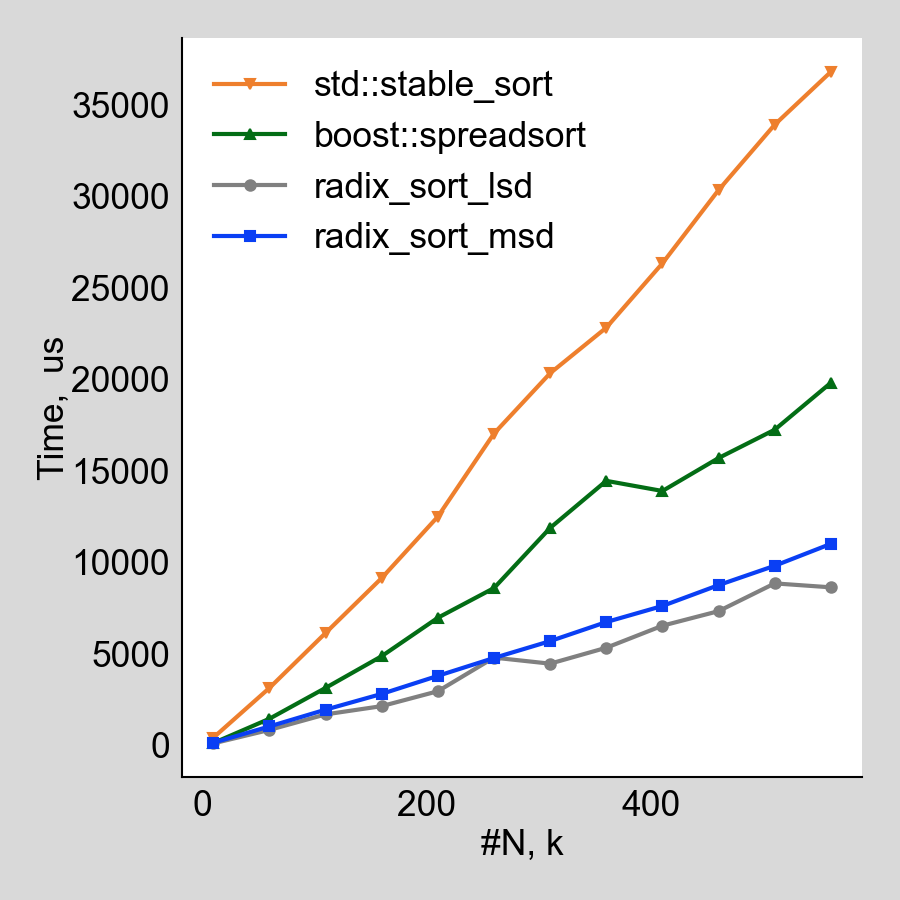
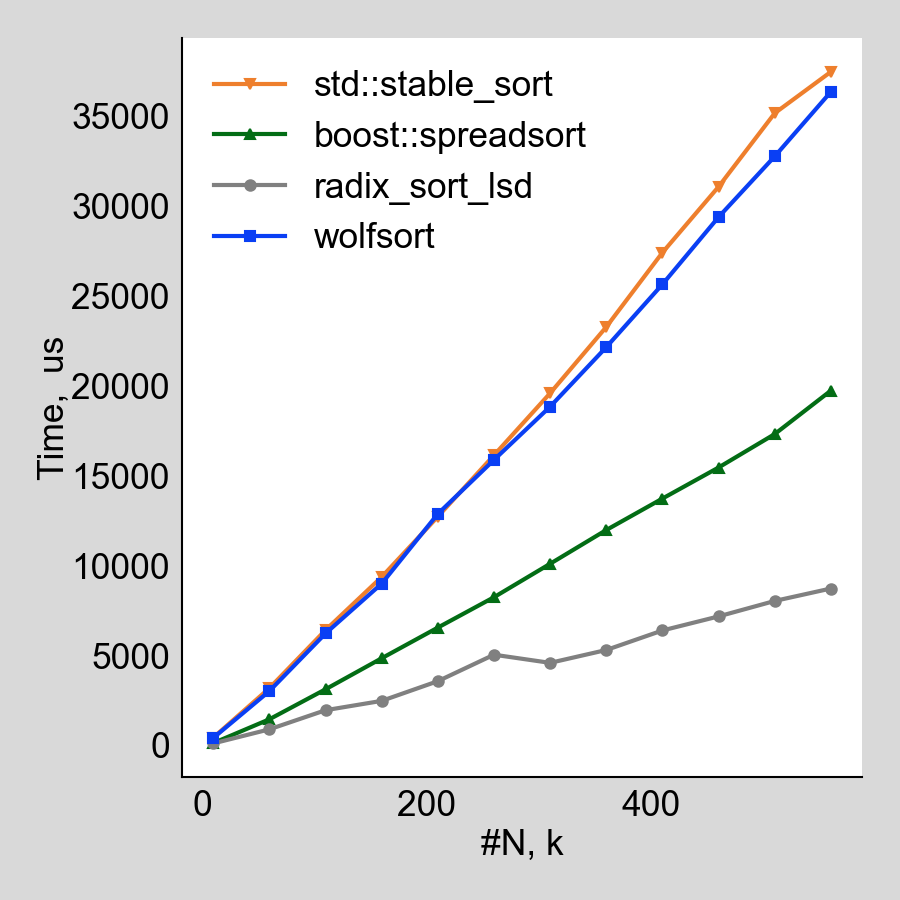
Checkout wolfsort

diff --git a/src/allunique_bmk.cpp b/src/allunique_bmk.cpp
@@ -11,6 +11,8 @@
 #include "radix_sort_lsd.h"
 #include "radix_sort_msd.h"
 
+#include "wolfsort.h"
+
 #define TEST_SIZE DenseRange(10000, 600000, 50000)
 
 #define BMKBODY(SORT)                                                \
@@ -107,6 +109,21 @@ BENCHMARK_DEFINE_F(SortingBmk_allUnique, LSDRadixSort)
 }
 BENCHMARK_REGISTER_F(SortingBmk_allUnique, LSDRadixSort)->Unit(benchmark::kMicrosecond)->TEST_SIZE;
 
+BENCHMARK_DEFINE_F(SortingBmk_allUnique, WolfSort)
+(benchmark::State& state)
+{
+    const auto n = state.range(0);
+
+    std::vector<uint64_t> values(m_vals.size());
+    for (auto _ : state) {
+        std::copy(m_vals.begin(), m_vals.end(), values.begin());
+
+        wolfsort(&values[0], values.size());
+        benchmark::DoNotOptimize(values);
+        benchmark::ClobberMemory();
+    }
+}
+BENCHMARK_REGISTER_F(SortingBmk_allUnique, WolfSort)->Unit(benchmark::kMicrosecond)->TEST_SIZE;
 /// uniform random numbers in the range [0, 1e9]
 ///
 class SortingBmk_uniform_1B : public benchmark::Fixture {
@@ -192,5 +209,21 @@ BENCHMARK_DEFINE_F(SortingBmk_uniform_1B, HybridRadixSort)
     }
 }
 BENCHMARK_REGISTER_F(SortingBmk_uniform_1B, HybridRadixSort)->Unit(benchmark::kMicrosecond)->TEST_SIZE;
+
+BENCHMARK_DEFINE_F(SortingBmk_uniform_1B, WolfSort)
+(benchmark::State& state)
+{
+    const auto n = state.range(0);
+
+    std::vector<T> values(m_vals.size());
+    for (auto _ : state) {
+        std::copy(m_vals.begin(), m_vals.end(), values.begin());
+
+        wolfsort(&values[0], values.size());
+        benchmark::DoNotOptimize(values);
+        benchmark::ClobberMemory();
+    }
+}
+BENCHMARK_REGISTER_F(SortingBmk_uniform_1B, WolfSort)->Unit(benchmark::kMicrosecond)->TEST_SIZE;
 
 BENCHMARK_MAIN();

diff --git a/src/wolfsort.h b/src/wolfsort.h
@@ -52,7 +52,7 @@ int cmp_long(const void * a, const void * b)
 	return *(long long *) a - *(long long *) b;
 }
 
-
+namespace details {
 void wolfsort(void *array, size_t nmemb, unsigned char size, CMPFUNC *ignore)
 {
 	if (nmemb < 1024)
@@ -246,4 +246,9 @@ void wolfsort(void *array, size_t nmemb, unsigned char size, CMPFUNC *ignore)
 //	assert(size == sizeof(int) || size == sizeof(long long));
 
 	quadsort(array, nmemb, size, ignore);
+}
+}
+void wolfsort(uint64_t *array, size_t nmemb)
+{
+    details::wolfsort((void*)array, nmemb, 8, cmp_long);
 }

diff --git a/src/checkSort.cpp b/src/checkSort.cpp
@@ -6,6 +6,8 @@
 #include "radix_sort_lsd.h"
 #include "radix_sort_msd.h"
 
+#include "wolfsort.h"
+
 // was lazy to install gtests on my personal machine
 int main(int, char**)
 {
@@ -22,7 +24,8 @@ int main(int, char**)
 
     std::shuffle(vals.begin(), vals.end(), std::mt19937 { std::random_device {}() });
 
-    radix_sort_hybrid(vals);
+    wolfsort(&vals[0], vals.size());
+    //radix_sort_hybrid(vals);
 
     for (size_t i = 1; i < n; ++i) {
         if (vals[i - 1] > vals[i]) {

diff --git a/README.md b/README.md
@@ -1,5 +1,8 @@
 # Radix sort implementation
 
+NOTE: This branch is to test wolf sort.
+It seems to be as slow as `std::stable_sort` for `uint64_t`.
+
 ## About
 
 This repo is to provide a fast and stable implementation of radix sort.
